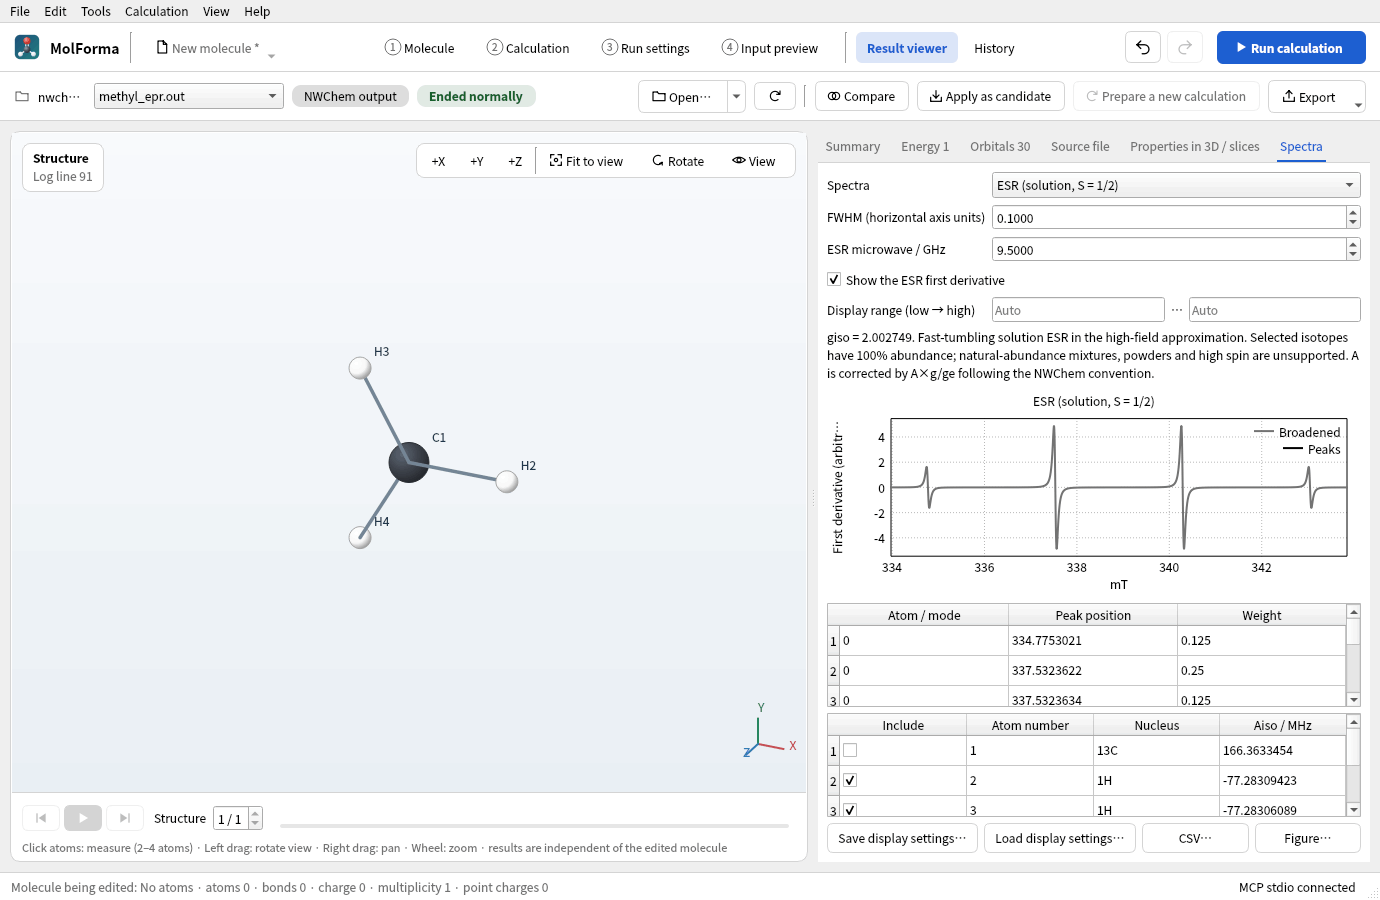
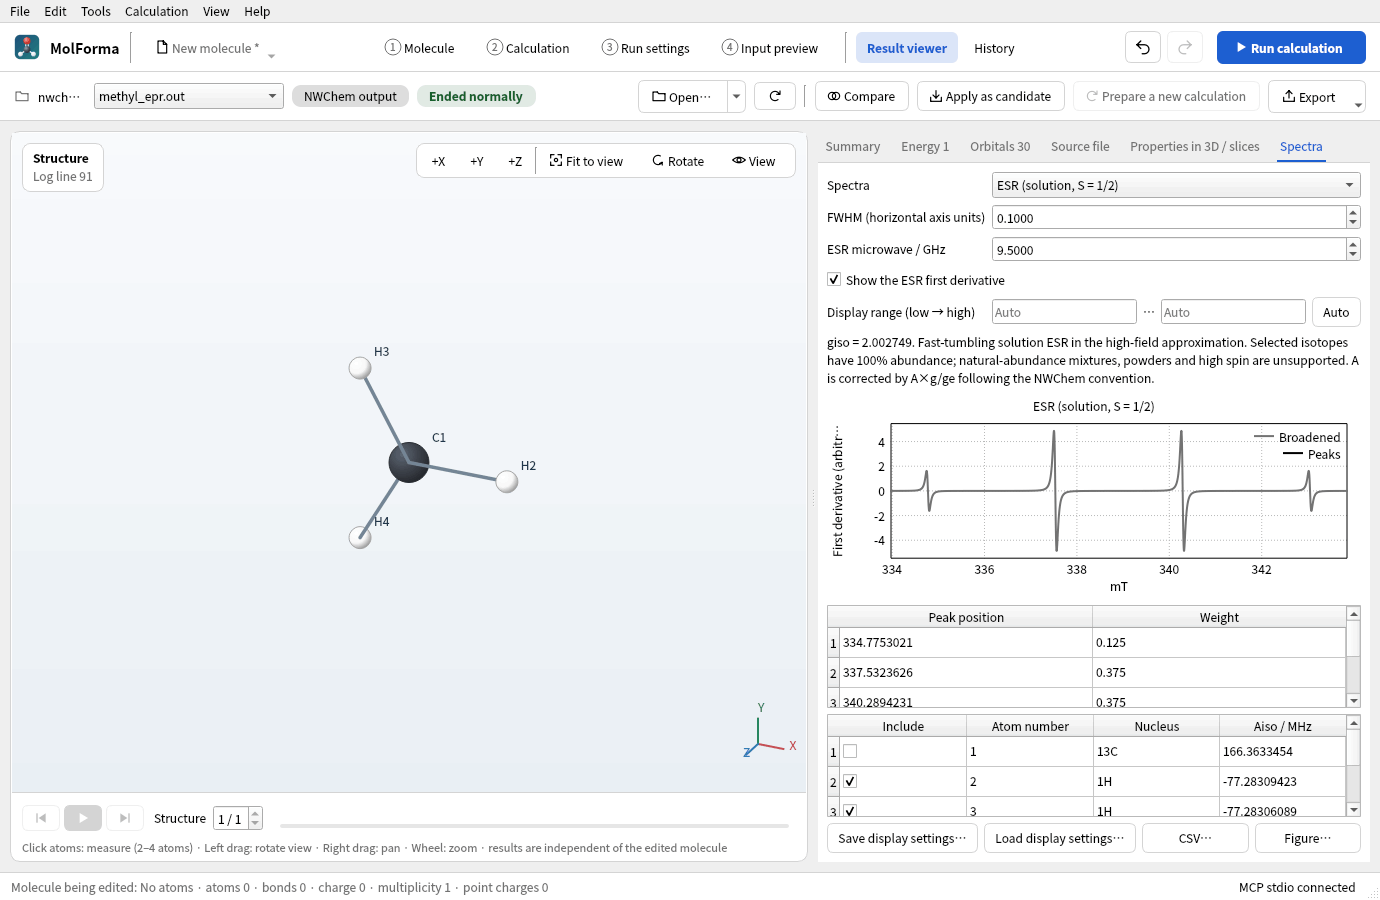
Group equivalent nuclei in the ESR peak table
Couplings of one isotope within 0.01 MHz are of equivalent nuclei: they
split into 2nI+1 lines weighted as the total M of the set (1:3:3:1 for
the methyl radical) instead of 2^n rows of numerical noise. The atom/mode
column is hidden for ESR, and rows without an atom or mode show a dash
instead of 0.

diff --git a/src/results/spectrum.cpp b/src/results/spectrum.cpp
@@ -10,6 +10,9 @@
 namespace mf {
 namespace {
 constexpr double FreeElectronG = 2.00231930436256;
+// ESR couplings of one isotope closer than this (0.4 µT, below the narrowest lines of solution ESR) are of
+// equivalent nuclei: a calculation gives symmetric nuclei couplings that differ by numerical noise.
+constexpr double EquivalentCouplingMhz = .01;
 Mat tensor(const QJsonArray &values) {
     if (values.size() != 9)
         fail(tr("ESRには完全なg・Aテンソルが必要です。"));
@@ -352,8 +355,13 @@ void collectPeaks(const ResultData &result, SpectrumData &out) {
         QMap<int, QJsonObject> byAtom;
         for (const auto &value : all)
             byAtom[value.toObject()["atom"].toInt()] = value.toObject();
+        struct Nucleus {
+            QString isotope;
+            int twiceSpin;
+            double a;
+        };
+        QVector<Nucleus> nuclei;
         QSet<int> used;
-        QVector<QPointF> splittings{{0, 1}};
         double maximum = 0;
         for (const auto &value : p["nuclei"].toArray()) {
             const auto nucleus = value.toObject();
@@ -367,14 +375,38 @@ void collectPeaks(const ResultData &result, SpectrumData &out) {
                                   : isotope == "17O"                                     ? 5
                                   : QStringList{"33S", "35Cl", "79Br"}.contains(isotope) ? 3
                                                                                          : 1;
-            if (splittings.size() * (twiceSpin + 1) > 4096)
-                fail(tr("スペクトルは4096本までのピークに対応します。"));
             const double a = required(byAtom[atom], "isotropic_mhz");
             maximum += std::abs(a) * twiceSpin / 2;
+            nuclei.append({isotope, twiceSpin, a});
+        }
+        // n equivalent nuclei of spin I split by their mean coupling into 2nI + 1 lines, weighted as the
+        // total M of the set (binomial for spin 1/2): equal lines are one peak.
+        std::sort(nuclei.begin(), nuclei.end(), [](const Nucleus &x, const Nucleus &y) {
+            return x.isotope != y.isotope ? x.isotope < y.isotope : x.a < y.a;
+        });
+        QVector<QPointF> splittings{{0, 1}};
+        for (qsizetype first = 0, last = 0; first < nuclei.size(); first = last) {
+            double sum = 0;
+            for (last = first; last < nuclei.size() && nuclei[last].isotope == nuclei[first].isotope &&
+                               nuclei[last].a - nuclei[first].a < EquivalentCouplingMhz;
+                 ++last)
+                sum += nuclei[last].a;
+            const int twiceSpin = nuclei[first].twiceSpin;
+            const auto count = last - first;
+            QVector<double> weights{1};
+            for (qsizetype k = 0; k < count; ++k) {
+                QVector<double> next(weights.size() + twiceSpin, 0.);
+                for (qsizetype i = 0; i < weights.size(); ++i)
+                    for (int m = 0; m <= twiceSpin; ++m)
+                        next[i + m] += weights[i] / (twiceSpin + 1);
+                weights = next;
+            }
+            if (splittings.size() * weights.size() > 4096)
+                fail(tr("スペクトルは4096本までのピークに対応します。"));
             QVector<QPointF> next;
             for (const auto &s : splittings)
-                for (int m = 0; m <= twiceSpin; ++m)
-                    next.append({s.x() + a * (m - twiceSpin / 2.), s.y() / (twiceSpin + 1)});
+                for (qsizetype i = 0; i < weights.size(); ++i)
+                    next.append({s.x() + sum / count * (i - count * twiceSpin / 2.), s.y() * weights[i]});
             splittings = next;
         }
         if (maximum > microwave * .1)

diff --git a/tests/test_results.cpp b/tests/test_results.cpp
@@ -1542,6 +1542,28 @@ class ResultsTest : public QObject, ResultFiles {
             QVERIFY(peak.x() > 330 && peak.x() < 350);
         }
         QVERIFY(std::abs(weight - 1) < 1e-12);
+        // The three protons differ by numerical noise only (3e-5 MHz): one 1:3:3:1 quartet, one peak a line.
+        QCOMPARE(s.peaks.size(), 4);
+        const double binomial[]{.125, .375, .375, .125};
+        for (int i = 0; i < 4; ++i)
+            QVERIFY(std::abs(s.peaks[i].toObject()["weight"].toDouble() - binomial[i]) < 1e-12);
+        const double spacing = s.peaks[1].toObject()["x"].toDouble() - s.peaks[0].toObject()["x"].toDouble();
+        QVERIFY(std::abs(spacing - 77.283 / (2.002749 * 13.99624555)) < 1e-4);
+        auto mixed = r; // A proton 1 MHz apart is not equivalent: 1:2:1 of two, split again by the third.
+        auto hyperfine = mixed.properties["epr_hyperfine"].toArray();
+        auto proton = hyperfine[3].toObject();
+        auto tensor = proton["tensor_mhz"].toArray();
+        for (int i : {0, 4, 8})
+            tensor[i] = tensor[i].toDouble() + 1;
+        proton["tensor_mhz"] = tensor;
+        hyperfine[3] = proton;
+        mixed.properties["epr_hyperfine"] = hyperfine;
+        QCOMPARE(calculateSpectrum(mixed, p).peaks.size(), 6);
+        auto carbon = p;
+        auto withCarbon = selected;
+        withCarbon.append(QJsonObject{{"atom", 1}, {"isotope", "13C"}});
+        carbon["nuclei"] = withCarbon;
+        QCOMPARE(calculateSpectrum(r, carbon).peaks.size(), 8);
         p["derivative"] = true;
         const auto derivative = calculateSpectrum(r, p);
         QVERIFY(
@@ -1555,6 +1577,11 @@ class ResultsTest : public QObject, ResultFiles {
         view.setResult(r);
         QCOMPARE(view.findChild<QTableWidget *>("spectrumEprNuclei")->rowCount(), 4);
         QCOMPARE(view.parameters()["nuclei"].toArray().size(), 3);
+        // The peak table: one row a line, without the column of atoms and modes.
+        auto *peakTable = view.findChild<QTableWidget *>("spectrumPeaks");
+        QCOMPARE(peakTable->rowCount(), 4);
+        QVERIFY(peakTable->isColumnHidden(0));
+        QCOMPARE(peakTable->item(1, 3)->text(), "0.375");
     }
     void applyResultStructure() {
         // Core rule: same atoms in the same order; fixed atoms must not have moved.

diff --git a/src/ui/spectroscopy_view.cpp b/src/ui/spectroscopy_view.cpp
@@ -473,6 +473,7 @@ void SpectroscopyView::refresh() {
     form->setRowVisible(microwave, epr);
     form->setRowVisible(derivative, epr);
     nucleus->setEnabled(nmr);
+    peaks->setColumnHidden(0, epr); // An ESR line belongs to no one atom.
     peaks->setColumnHidden(2, !nmr);
     try {
         if (nmr && reference->text().trimmed().isEmpty())
@@ -517,11 +518,12 @@ void SpectroscopyView::refresh() {
             for (const auto &atom : p["atoms"].toArray())
                 atoms << QString::number(atom.toInt());
             const QStringList values{
-                !atoms.isEmpty()     ? atoms.join(", ")
-                : p.contains("atom") ? QString::number(p["atom"].toInt())
-                : p.contains("mode") ? QString::number(p["mode"].toInt() + 1)
-                : p.contains("root") ? QString::number(p["root"].toInt())
-                                     : QString::number(p["raman_index"].toInt()),
+                !atoms.isEmpty()            ? atoms.join(", ")
+                : p.contains("atom")        ? QString::number(p["atom"].toInt())
+                : p.contains("mode")        ? QString::number(p["mode"].toInt() + 1)
+                : p.contains("root")        ? QString::number(p["root"].toInt())
+                : p.contains("raman_index") ? QString::number(p["raman_index"].toInt())
+                                            : QString("—"),
                 QString::number(p["x"].toDouble(), 'g', 10),
                 p.contains("shielding_ppm") ? QString::number(p["shielding_ppm"].toDouble(), 'g', 10) : "—",
                 QString::number(p["weight"].toDouble(), 'g', 10),

diff --git a/docs/features/results.md b/docs/features/results.md
@@ -136,7 +136,7 @@ task dplot
 - **通常ラマン**: 「2 計算条件 → 物性」で有効にし、励起波長を指定します。閉殻DFTの「振動数」または「最適化＋振動数」に対応します。後続の一点計算・TDDFT・BSSE・ゴースト中心との併用はできません。ログの活性表または`.normal`を開くとÅ⁴/amuのラマン活性を描きます。対応する振動を含むログではピークからモードを選べます。`.normal`単独には構造・変位がありません。NWChemの散乱断面積の畳込み列とは区別し、実験強度・温度補正・共鳴ラマンへの換算は行いません。
 - **ESR/EPR**: 二重項・非制限DFT・ZORAで「ESRのg・Aテンソル」を有効にします。結果ではマイクロ波周波数（GHz）、線幅（mT）、含める核を選び、吸収または一次微分を表示します。核の表は原子選択と連動します。高速回転するS＝1/2溶液の一次高磁場近似です。選択した同位体を100%含むモデルであり、天然存在比混合、粉末、遅い運動、高スピンは含みません。対応する磁性同位体は¹H・¹³C・¹⁴N・¹⁷O・¹⁹F・²⁹Si・³¹P・³³S・³⁵Cl・⁷⁹Br。既定ではH・N・F・Pを含め、ほかは明示的に選択します。
 
-ESRではNWChemのΔg（ppt）をg = ge I + 0.001 Δgに変換し、A（MHz）はA×g/geのトレースから等方値を求めます。含めた核の最大超微細分裂がマイクロ波エネルギーの10%を超える場合は表示を拒否します。スペクトルは4096ピークまでです。数値処理はMCPの`get_results`の`spectrum`・`spectrum_peaks`でも共通です。
+ESRではNWChemのΔg（ppt）をg = ge I + 0.001 Δgに変換し、A（MHz）はA×g/geのトレースから等方値を求めます。対称な位置の核でも計算値は数値誤差でわずかに違うので、同じ核種でAisoの差が0.01 MHz（0.4 µT）未満の核は等価とみなし、n個の等価な核（核スピンI）はその平均の値で2nI + 1本に分けます。ピーク表は線ごとに1行で、重みは合計1です（¹H 3個なら1:3:3:1）。原子と結び付く線ではないので「原子 / モード」の列は表示しません。含めた核の最大超微細分裂がマイクロ波エネルギーの10%を超える場合は表示を拒否します。スペクトルは4096ピークまでです。数値処理はMCPの`get_results`の`spectrum`・`spectrum_peaks`でも共通です。
 
 参照: [NWChemのラマン](https://nwchemgit.github.io/Properties.html#raman)、[NWChemのEPRテンソル規約](https://nwchemgit.github.io/EPR-pNMR.html)。水の通常ラマンとメチルラジカルのEPRをNWChem 7.3.1で確認しています。
 

diff --git a/docs/en/features/results.md b/docs/en/features/results.md
@@ -136,7 +136,7 @@ A “Spectra” tab appears for supported output. It draws sticks and a Lorentzi
 - **Normal Raman**: Enable it under “2 Calculation → Properties” and specify an excitation wavelength. Supported tasks are closed-shell DFT frequencies and optimization + frequencies, without follow-up single points, TDDFT, BSSE or ghost centers. Read the log activity table or a `.normal` file to plot Raman activities in Å⁴/amu. Peaks select modes when the log includes matching vibrations. A `.normal` file alone contains no geometry or displacement. Its broadened scattering-cross-section columns are distinct from the activities used here. Experimental intensity, temperature conversion and resonance Raman are unsupported.
 - **ESR/EPR**: Enable “ESR g and A tensors” for doublet unrestricted DFT with ZORA. In the viewer, set microwave frequency (GHz), width (mT) and included nuclei, and choose absorption or first derivative. The nuclear table selects result atoms. This is a first-order high-field model for fast-tumbling S = 1/2 solutions. Selected isotopes have 100% abundance; natural-abundance mixtures, powders, slow motion and high spin are unsupported. Supported magnetic isotopes are ¹H, ¹³C, ¹⁴N, ¹⁷O, ¹⁹F, ²⁹Si, ³¹P, ³³S, ³⁵Cl and ⁷⁹Br. H, N, F and P are included by default; select other nuclei explicitly.
 
-ESR converts NWChem Δg in ppt to g = ge I + 0.001 Δg, then obtains isotropic A in MHz from the trace of A×g/ge. It refuses a spectrum if the largest combined hyperfine splitting exceeds 10% of the microwave energy. Spectra support at most 4096 peaks. MCP `get_results` sections `spectrum` and `spectrum_peaks` use the same numerical implementation.
+ESR converts NWChem Δg in ppt to g = ge I + 0.001 Δg, then obtains isotropic A in MHz from the trace of A×g/ge. Calculated values of symmetric nuclei still differ by numerical noise, so nuclei of one isotope whose Aiso differ by less than 0.01 MHz (0.4 µT) count as equivalent, and n equivalent nuclei of spin I split the lines into 2nI + 1 by their mean value. The peak table has one row per line, with weights that add up to 1 (1:3:3:1 for three ¹H). A line belongs to no one atom, so the “Atom / mode” column is not shown. It refuses a spectrum if the largest combined hyperfine splitting exceeds 10% of the microwave energy. Spectra support at most 4096 peaks. MCP `get_results` sections `spectrum` and `spectrum_peaks` use the same numerical implementation.
 
 References: [NWChem Raman](https://nwchemgit.github.io/Properties.html#raman), [NWChem EPR tensor convention](https://nwchemgit.github.io/EPR-pNMR.html). Water normal Raman and methyl-radical EPR were checked with NWChem 7.3.1.
 

diff --git a/docs/recipes/methyl_epr.md b/docs/recipes/methyl_epr.md
@@ -51,7 +51,7 @@ ESRのg・Aテンソルは、多重度2（不対電子1個）・非制限DFT・Z
 
 ESR装置は磁場を変調して吸収を検出するので、測定のスペクトルは吸収の一次微分の形をしています。既定の一次微分表示はこれに合わせたもので、線の中心は曲線が0を横切る位置です。「ESRを一次微分で表示」をオフにすると吸収の形になります。
 
-ピーク表には線の位置（mT）と重みが並びます。3個の水素のAisoは、計算の数値誤差で0.002 MHzほど違います。そのため、同じ位置に見える線も別の行（重み0.125ずつ）に分かれます。チャートでは重なって1本になります。
+ピーク表には線ごとに位置（mT）と重みが並び、重みは0.125、0.375、0.375、0.125（1:3:3:1、合計1）です。3個の水素のAisoは計算の数値誤差で0.002 MHzほど違いますが、MolFormaは同じ核種でAisoの差が0.01 MHz未満の核を等価な核としてまとめます。
 
 ### 実行した結果
 

diff --git a/docs/en/recipes/methyl_epr.md b/docs/en/recipes/methyl_epr.md
@@ -51,7 +51,7 @@ The four lines of the chart lie at 335.69, 337.83, 339.97 and 342.10 mT, 2.136 m
 
 An ESR instrument modulates the magnetic field to detect the absorption, so measured spectra have the shape of the first derivative of the absorption. The default first-derivative display follows this; the center of a line is where the curve crosses zero. Turning off “Show the ESR first derivative” shows the absorption.
 
-The peak table lists the positions of the lines (mT) and their weights. The Aiso of the three hydrogens differ by about 0.002 MHz through numerical noise of the calculation, so lines that look like one are listed in separate rows (weight 0.125 each). In the chart they overlap as one line.
+The peak table lists each line's position (mT) and weight: 0.125, 0.375, 0.375 and 0.125 (1:3:3:1, adding up to 1). The Aiso of the three hydrogens differ by about 0.002 MHz through numerical noise of the calculation, but MolForma treats nuclei of one isotope whose Aiso differ by less than 0.01 MHz as equivalent.
 
 ### Results
 
